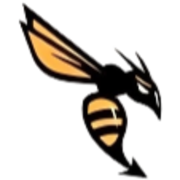
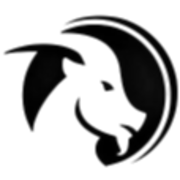
feat(brand): 站点图标换成山羊徽标，去掉底色并裁到最紧
业主给的原图 284×284，但**底色不是透明的** —— 是白 + alpha 226（半透明白底铺满画布），
且**彩色像素 0%**（文件名写着 blue-circle，实际一点蓝都没有，纯黑白稿）。

抠底做法：黑稿压白底，逐像素 `alpha = 255 - min(r,g,b)`、颜色压成纯黑。
纯黑→实心、纯白→透明、中间灰→半透明，**抗锯齿边缘天然保住**，不用手工描边。

关键一步是切噪点：抠完先看 alpha 直方图，发现 **95% 的画布落在 alpha ≤ 7**
（0 占 23.6%、1-3 占 44.9%、4-7 占 26.2%）—— 就是那个半透明白底留下的压缩噪点，
真内容从 alpha 16 才起。所以 `alpha < 12` 一律清零：雾散掉、边缘没伤。
不切的话 `alpha>4` 的边界是 240×208、几乎铺满画布，按它裁会把 logo 缩得很小。

裁切：内容 bbox (81,64)-(190,159) = 110×96，裁 114×114（只留 2px 气口），
logo 宽度占图标 **96.5%**；实体像素占比 16px 达 **15.2%**
（上一版胡蜂只有 4.3%，所以这版在 16px 上明显更清楚）。
透明实测：四张图角落 alpha = 0、最小 alpha = 0。

产出 favicon-16/32/48.png + apple-touch-icon.png(180) + favicon.ico（16+32+48 内嵌），
14 个页面的 favicon 链接版本号刷到 `?v=20261015_caprine`
（favicon 是浏览器缓存最顽固的东西，不换名字用户只会看到旧图）。

⚠ 180px 那张是 1.58× 放大 —— 源 logo 本身只有 110px 宽，这是"高清"的物理上限；
16/32/48 都是真降采样，锐利。
⚠ 透明底 + 黑色身体在**深色标签条**上黑色部分会融掉（只剩轮廓），
这是透明方案的固有取舍，加底才能解决 —— 业主明确要透明。

diff --git a/public/connections.html b/public/connections.html
@@ -4,9 +4,9 @@
     <meta charset="utf-8" />
     <meta name="viewport" content="width=device-width, initial-scale=1" />
     <title>DataConverter</title>
-    <link rel="icon" type="image/png" sizes="32x32" href="/favicon-32.png?v=20261014_hornet2" />
-    <link rel="icon" type="image/png" sizes="16x16" href="/favicon-16.png?v=20261014_hornet2" />
-    <link rel="apple-touch-icon" sizes="180x180" href="/apple-touch-icon.png?v=20261014_hornet2" />
+    <link rel="icon" type="image/png" sizes="32x32" href="/favicon-32.png?v=20261015_caprine" />
+    <link rel="icon" type="image/png" sizes="16x16" href="/favicon-16.png?v=20261015_caprine" />
+    <link rel="apple-touch-icon" sizes="180x180" href="/apple-touch-icon.png?v=20261015_caprine" />
     <link rel="stylesheet" href="/styles.css?v=20261014_nobg" />
     <link rel="stylesheet" href="/connections.css?v=20260912_revert_fields" />
     <link rel="stylesheet" href="/theme.css?v=20261014_backbtn" />

diff --git a/public/export.html b/public/export.html
@@ -4,9 +4,9 @@
     <meta charset="utf-8" />
     <meta name="viewport" content="width=device-width, initial-scale=1" />
     <title>DataConverter</title>
-    <link rel="icon" type="image/png" sizes="32x32" href="/favicon-32.png?v=20261014_hornet2" />
-    <link rel="icon" type="image/png" sizes="16x16" href="/favicon-16.png?v=20261014_hornet2" />
-    <link rel="apple-touch-icon" sizes="180x180" href="/apple-touch-icon.png?v=20261014_hornet2" />
+    <link rel="icon" type="image/png" sizes="32x32" href="/favicon-32.png?v=20261015_caprine" />
+    <link rel="icon" type="image/png" sizes="16x16" href="/favicon-16.png?v=20261015_caprine" />
+    <link rel="apple-touch-icon" sizes="180x180" href="/apple-touch-icon.png?v=20261015_caprine" />
     <link rel="stylesheet" href="/styles.css?v=20261014_nobg" />
     <link rel="stylesheet" href="/sql-editor.css?v=20260911_sql_editor" />
     <link rel="stylesheet" href="/theme.css?v=20261014_backbtn" />

diff --git a/public/index.html b/public/index.html
@@ -4,9 +4,9 @@
     <meta charset="utf-8" />
     <meta name="viewport" content="width=device-width, initial-scale=1" />
     <title>DataConverter</title>
-    <link rel="icon" type="image/png" sizes="32x32" href="/favicon-32.png?v=20261014_hornet2" />
-    <link rel="icon" type="image/png" sizes="16x16" href="/favicon-16.png?v=20261014_hornet2" />
-    <link rel="apple-touch-icon" sizes="180x180" href="/apple-touch-icon.png?v=20261014_hornet2" />
+    <link rel="icon" type="image/png" sizes="32x32" href="/favicon-32.png?v=20261015_caprine" />
+    <link rel="icon" type="image/png" sizes="16x16" href="/favicon-16.png?v=20261015_caprine" />
+    <link rel="apple-touch-icon" sizes="180x180" href="/apple-touch-icon.png?v=20261015_caprine" />
     <link rel="stylesheet" href="/styles.css?v=20261014_nobg" />
     <link rel="stylesheet" href="/sql-editor.css?v=20260911_sql_editor" />
     <link rel="stylesheet" href="/theme.css?v=20261014_backbtn" />

diff --git a/public/query.html b/public/query.html
@@ -4,9 +4,9 @@
     <meta charset="utf-8" />
     <meta name="viewport" content="width=device-width, initial-scale=1" />
     <title>DataConverter</title>
-    <link rel="icon" type="image/png" sizes="32x32" href="/favicon-32.png?v=20261014_hornet2" />
-    <link rel="icon" type="image/png" sizes="16x16" href="/favicon-16.png?v=20261014_hornet2" />
-    <link rel="apple-touch-icon" sizes="180x180" href="/apple-touch-icon.png?v=20261014_hornet2" />
+    <link rel="icon" type="image/png" sizes="32x32" href="/favicon-32.png?v=20261015_caprine" />
+    <link rel="icon" type="image/png" sizes="16x16" href="/favicon-16.png?v=20261015_caprine" />
+    <link rel="apple-touch-icon" sizes="180x180" href="/apple-touch-icon.png?v=20261015_caprine" />
     <link rel="stylesheet" href="/styles.css?v=20261014_nobg" />
     <link rel="stylesheet" href="/sql-editor.css?v=20260911_sql_editor" />
     <link rel="stylesheet" href="/theme.css?v=20261014_backbtn" />

diff --git a/public/tables.html b/public/tables.html
@@ -4,9 +4,9 @@
     <meta charset="utf-8" />
     <meta name="viewport" content="width=device-width, initial-scale=1" />
     <title>DataConverter</title>
-    <link rel="icon" type="image/png" sizes="32x32" href="/favicon-32.png?v=20261014_hornet2" />
-    <link rel="icon" type="image/png" sizes="16x16" href="/favicon-16.png?v=20261014_hornet2" />
-    <link rel="apple-touch-icon" sizes="180x180" href="/apple-touch-icon.png?v=20261014_hornet2" />
+    <link rel="icon" type="image/png" sizes="32x32" href="/favicon-32.png?v=20261015_caprine" />
+    <link rel="icon" type="image/png" sizes="16x16" href="/favicon-16.png?v=20261015_caprine" />
+    <link rel="apple-touch-icon" sizes="180x180" href="/apple-touch-icon.png?v=20261015_caprine" />
     <link rel="stylesheet" href="/styles.css?v=20261014_nobg" />
     <link rel="stylesheet" href="/sql-editor.css?v=20260911_sql_editor" />
     <link rel="stylesheet" href="/theme.css?v=20261014_backbtn" />

diff --git a/public/api.html b/public/api.html
@@ -4,9 +4,9 @@
     <meta charset="utf-8" />
     <meta name="viewport" content="width=device-width, initial-scale=1" />
     <title>DataConverter</title>
-    <link rel="icon" type="image/png" sizes="32x32" href="/favicon-32.png?v=20261014_hornet2" />
-    <link rel="icon" type="image/png" sizes="16x16" href="/favicon-16.png?v=20261014_hornet2" />
-    <link rel="apple-touch-icon" sizes="180x180" href="/apple-touch-icon.png?v=20261014_hornet2" />
+    <link rel="icon" type="image/png" sizes="32x32" href="/favicon-32.png?v=20261015_caprine" />
+    <link rel="icon" type="image/png" sizes="16x16" href="/favicon-16.png?v=20261015_caprine" />
+    <link rel="apple-touch-icon" sizes="180x180" href="/apple-touch-icon.png?v=20261015_caprine" />
     <link rel="stylesheet" href="/styles.css?v=20261014_nobg" />
     <link rel="stylesheet" href="/theme.css?v=20261014_backbtn" />
     <link rel="stylesheet" href="/theme-classic.css?v=20261014_nobg" />

diff --git a/public/audit.html b/public/audit.html
@@ -4,9 +4,9 @@
     <meta charset="utf-8" />
     <meta name="viewport" content="width=device-width, initial-scale=1" />
     <title>DataConverter</title>
-    <link rel="icon" type="image/png" sizes="32x32" href="/favicon-32.png?v=20261014_hornet2" />
-    <link rel="icon" type="image/png" sizes="16x16" href="/favicon-16.png?v=20261014_hornet2" />
-    <link rel="apple-touch-icon" sizes="180x180" href="/apple-touch-icon.png?v=20261014_hornet2" />
+    <link rel="icon" type="image/png" sizes="32x32" href="/favicon-32.png?v=20261015_caprine" />
+    <link rel="icon" type="image/png" sizes="16x16" href="/favicon-16.png?v=20261015_caprine" />
+    <link rel="apple-touch-icon" sizes="180x180" href="/apple-touch-icon.png?v=20261015_caprine" />
     <link rel="stylesheet" href="/styles.css?v=20261014_nobg" />
     <link rel="stylesheet" href="/theme.css?v=20261014_backbtn" />
     <link rel="stylesheet" href="/theme-classic.css?v=20261014_nobg" />

diff --git a/public/docs.html b/public/docs.html
@@ -4,9 +4,9 @@
     <meta charset="utf-8" />
     <meta name="viewport" content="width=device-width, initial-scale=1" />
     <title>DataConverter</title>
-    <link rel="icon" type="image/png" sizes="32x32" href="/favicon-32.png?v=20261014_hornet2" />
-    <link rel="icon" type="image/png" sizes="16x16" href="/favicon-16.png?v=20261014_hornet2" />
-    <link rel="apple-touch-icon" sizes="180x180" href="/apple-touch-icon.png?v=20261014_hornet2" />
+    <link rel="icon" type="image/png" sizes="32x32" href="/favicon-32.png?v=20261015_caprine" />
+    <link rel="icon" type="image/png" sizes="16x16" href="/favicon-16.png?v=20261015_caprine" />
+    <link rel="apple-touch-icon" sizes="180x180" href="/apple-touch-icon.png?v=20261015_caprine" />
     <link rel="stylesheet" href="/styles.css?v=20261014_nobg" />
     <link rel="stylesheet" href="/theme.css?v=20261014_backbtn" />
     <link rel="stylesheet" href="/theme-classic.css?v=20261014_nobg" />

diff --git a/public/feedback.html b/public/feedback.html
@@ -4,9 +4,9 @@
     <meta charset="utf-8" />
     <meta name="viewport" content="width=device-width, initial-scale=1" />
     <title>DataConverter</title>
-    <link rel="icon" type="image/png" sizes="32x32" href="/favicon-32.png?v=20261014_hornet2" />
-    <link rel="icon" type="image/png" sizes="16x16" href="/favicon-16.png?v=20261014_hornet2" />
-    <link rel="apple-touch-icon" sizes="180x180" href="/apple-touch-icon.png?v=20261014_hornet2" />
+    <link rel="icon" type="image/png" sizes="32x32" href="/favicon-32.png?v=20261015_caprine" />
+    <link rel="icon" type="image/png" sizes="16x16" href="/favicon-16.png?v=20261015_caprine" />
+    <link rel="apple-touch-icon" sizes="180x180" href="/apple-touch-icon.png?v=20261015_caprine" />
     <link rel="stylesheet" href="/styles.css?v=20261014_nobg" />
     <link rel="stylesheet" href="/theme.css?v=20261014_backbtn" />
     <link rel="stylesheet" href="/theme-classic.css?v=20261014_nobg" />

diff --git a/public/jobs.html b/public/jobs.html
@@ -4,9 +4,9 @@
     <meta charset="utf-8" />
     <meta name="viewport" content="width=device-width, initial-scale=1" />
     <title>DataConverter</title>
-    <link rel="icon" type="image/png" sizes="32x32" href="/favicon-32.png?v=20261014_hornet2" />
-    <link rel="icon" type="image/png" sizes="16x16" href="/favicon-16.png?v=20261014_hornet2" />
-    <link rel="apple-touch-icon" sizes="180x180" href="/apple-touch-icon.png?v=20261014_hornet2" />
+    <link rel="icon" type="image/png" sizes="32x32" href="/favicon-32.png?v=20261015_caprine" />
+    <link rel="icon" type="image/png" sizes="16x16" href="/favicon-16.png?v=20261015_caprine" />
+    <link rel="apple-touch-icon" sizes="180x180" href="/apple-touch-icon.png?v=20261015_caprine" />
     <link rel="stylesheet" href="/styles.css?v=20261014_nobg" />
     <link rel="stylesheet" href="/theme.css?v=20261014_backbtn" />
     <link rel="stylesheet" href="/theme-classic.css?v=20261014_nobg" />

diff --git a/public/schedule.html b/public/schedule.html
@@ -4,9 +4,9 @@
     <meta charset="utf-8" />
     <meta name="viewport" content="width=device-width, initial-scale=1" />
     <title>DataConverter</title>
-    <link rel="icon" type="image/png" sizes="32x32" href="/favicon-32.png?v=20261014_hornet2" />
-    <link rel="icon" type="image/png" sizes="16x16" href="/favicon-16.png?v=20261014_hornet2" />
-    <link rel="apple-touch-icon" sizes="180x180" href="/apple-touch-icon.png?v=20261014_hornet2" />
+    <link rel="icon" type="image/png" sizes="32x32" href="/favicon-32.png?v=20261015_caprine" />
+    <link rel="icon" type="image/png" sizes="16x16" href="/favicon-16.png?v=20261015_caprine" />
+    <link rel="apple-touch-icon" sizes="180x180" href="/apple-touch-icon.png?v=20261015_caprine" />
     <link rel="stylesheet" href="/styles.css?v=20261014_nobg" />
     <link rel="stylesheet" href="/theme.css?v=20261014_backbtn" />
     <link rel="stylesheet" href="/theme-classic.css?v=20261014_nobg" />

diff --git a/public/sync.html b/public/sync.html
@@ -4,9 +4,9 @@
     <meta charset="utf-8" />
     <meta name="viewport" content="width=device-width, initial-scale=1" />
     <title>DataConverter</title>
-    <link rel="icon" type="image/png" sizes="32x32" href="/favicon-32.png?v=20261014_hornet2" />
-    <link rel="icon" type="image/png" sizes="16x16" href="/favicon-16.png?v=20261014_hornet2" />
-    <link rel="apple-touch-icon" sizes="180x180" href="/apple-touch-icon.png?v=20261014_hornet2" />
+    <link rel="icon" type="image/png" sizes="32x32" href="/favicon-32.png?v=20261015_caprine" />
+    <link rel="icon" type="image/png" sizes="16x16" href="/favicon-16.png?v=20261015_caprine" />
+    <link rel="apple-touch-icon" sizes="180x180" href="/apple-touch-icon.png?v=20261015_caprine" />
     <link rel="stylesheet" href="/styles.css?v=20261014_nobg" />
     <link rel="stylesheet" href="/theme.css?v=20261014_backbtn" />
     <link rel="stylesheet" href="/theme-classic.css?v=20261014_nobg" />
